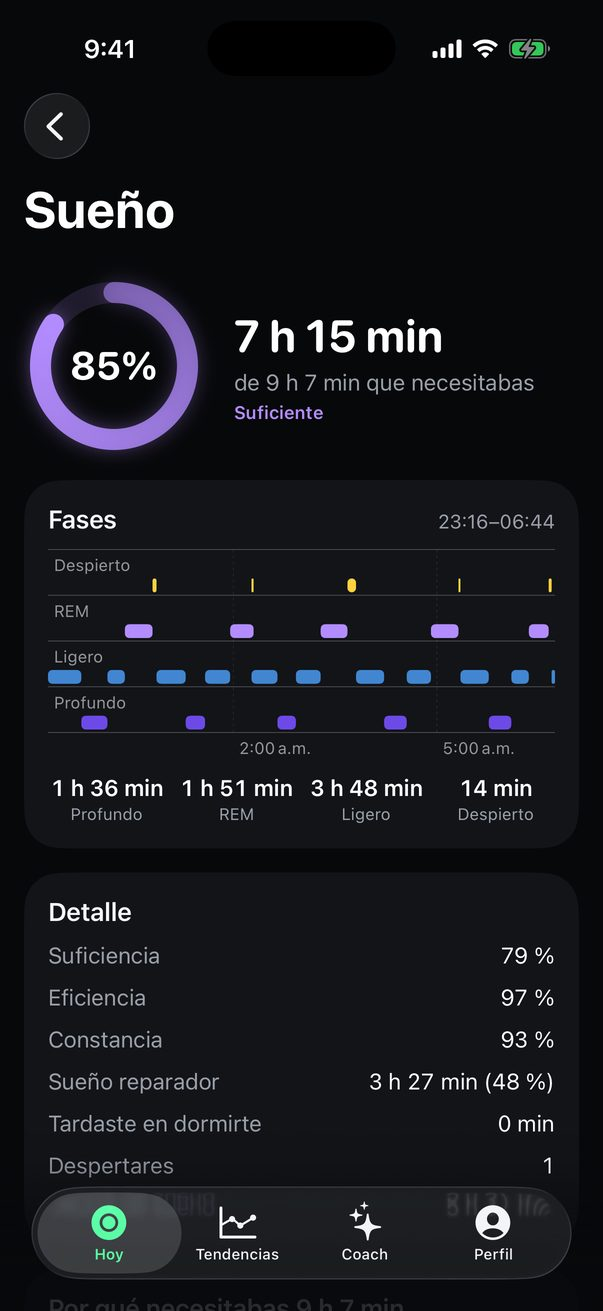
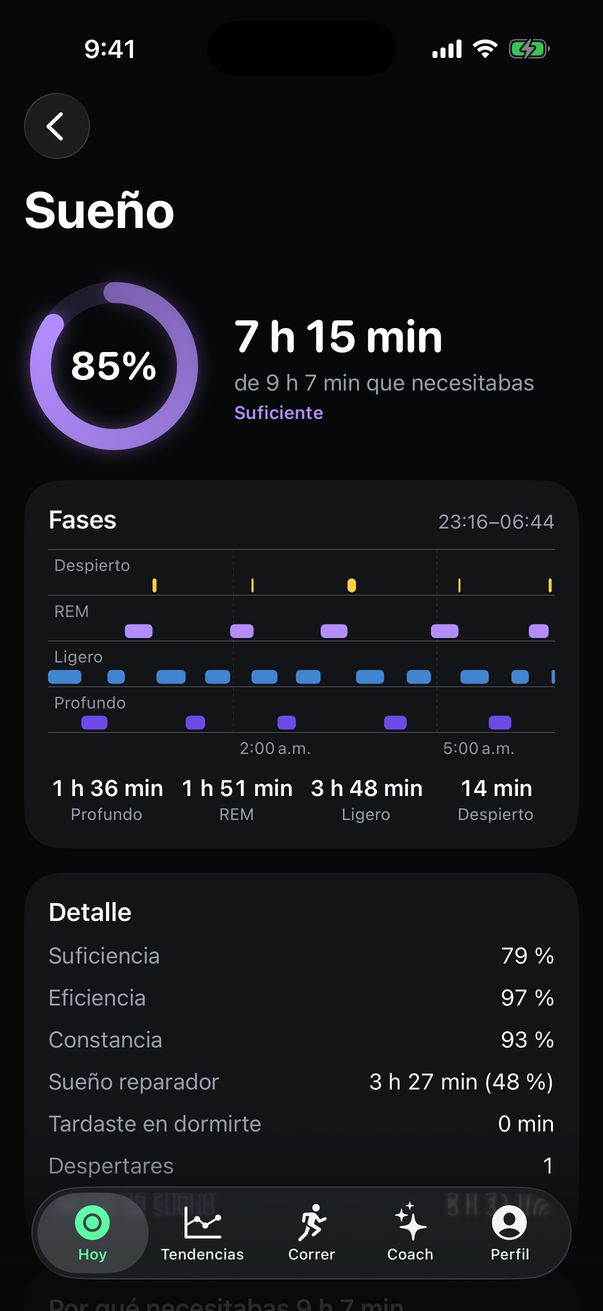
Galería del README con la pestaña Correr y las capturas actualizadas
Capturas de la ejecución 32 (modo demostración): todas llevan ya la pestaña
Correr en la barra, y una tabla nueva enseña la pestaña, una carrera, el
análisis con IA, las gráficas, parciales y zonas, técnica, rendimiento y
récords.

Claude-Session: https://claude.ai/code/session_01RwbGtxZYC2c3JdXsgAPTdJ

diff --git a/README.md b/README.md
@@ -48,9 +48,9 @@ Plantilla de configuración: [`Config/Secrets.example.xcconfig`](Config/Secrets.
 
 Generadas automáticamente en el simulador (iPhone, iOS 26) por el *workflow* **iOS** con los datos de demostración ([`scripts/screenshots.sh`](scripts/screenshots.sh)). Todas en [`docs/capturas`](docs/capturas).
 
-| Hoy | Carrera (Watch + Fitbit) | Sueño | Tendencias |
+| Hoy | Carga | Sueño | Tendencias |
 |---|---|---|---|
-| ![Hoy](docs/capturas/hoy.jpg) | ![Carrera](docs/capturas/carrera.jpg) | ![Sueño](docs/capturas/sueno.jpg) | ![Tendencias](docs/capturas/tendencias.jpg) |
+| ![Hoy](docs/capturas/hoy.jpg) | ![Carga](docs/capturas/carga.jpg) | ![Sueño](docs/capturas/sueno.jpg) | ![Tendencias](docs/capturas/tendencias.jpg) |
 | **Análisis del día** | **Recuperación** | **Salud** | **Hoy (tema claro)** |
 | ![Análisis del día](docs/capturas/analisis-del-dia.jpg) | ![Recuperación](docs/capturas/recuperacion.jpg) | ![Salud](docs/capturas/salud.jpg) | ![Hoy en tema claro](docs/capturas/hoy-tema-claro.jpg) |
 | **Mi panel** | **Plan semanal** | **Registro de fuerza** | **Entrenamiento en curso** |
@@ -58,7 +58,15 @@ Generadas automáticamente en el simulador (iPhone, iOS 26) por el *workflow* **
 | **Respiración guiada** | **Alarma inteligente** | **VO₂ máx. y edad fisiológica** | **Informe semanal (IA)** |
 | ![Respiración guiada](docs/capturas/respiracion.jpg) | ![Alarma inteligente](docs/capturas/alarma.jpg) | ![VO₂ máx.](docs/capturas/vo2max.jpg) | ![Informe semanal](docs/capturas/informe-semanal.jpg) |
 
-En el modo demostración, el resumen matinal y el informe semanal son **textos de ejemplo** (se indica en la tarjeta); con el Coach activado los redacta la IA con tus datos.
+**Correr** ([doc. 18](docs/18-analisis-de-carreras.md)):
+
+| Correr | Una carrera (Watch + Fitbit) | Análisis con IA | Gráficas |
+|---|---|---|---|
+| ![Pestaña Correr](docs/capturas/correr.jpg) | ![Mapa y cifras de una carrera](docs/capturas/carrera.jpg) | ![Análisis de la carrera con IA](docs/capturas/correr-ia.jpg) | ![Gráficas y parciales](docs/capturas/correr-graficas.jpg) |
+| **Parciales, zonas y marcas** | **Técnica y Watch frente a Fitbit** | **Rendimiento (VDOT)** | **Récords y tendencias** |
+| ![Parciales, zonas y mejores marcas](docs/capturas/correr-zonas.jpg) | ![Técnica de carrera y comparación de dispositivos](docs/capturas/correr-tecnica.jpg) | ![VDOT, predicciones y ritmos](docs/capturas/correr-rendimiento.jpg) | ![Récords y tendencias](docs/capturas/correr-records.jpg) |
+
+En el modo demostración, el resumen matinal, el informe semanal y el análisis de cada carrera son **textos de ejemplo** (se indica en la tarjeta); con el Coach activado los redacta la IA con tus datos.
 
 ## Código
 
